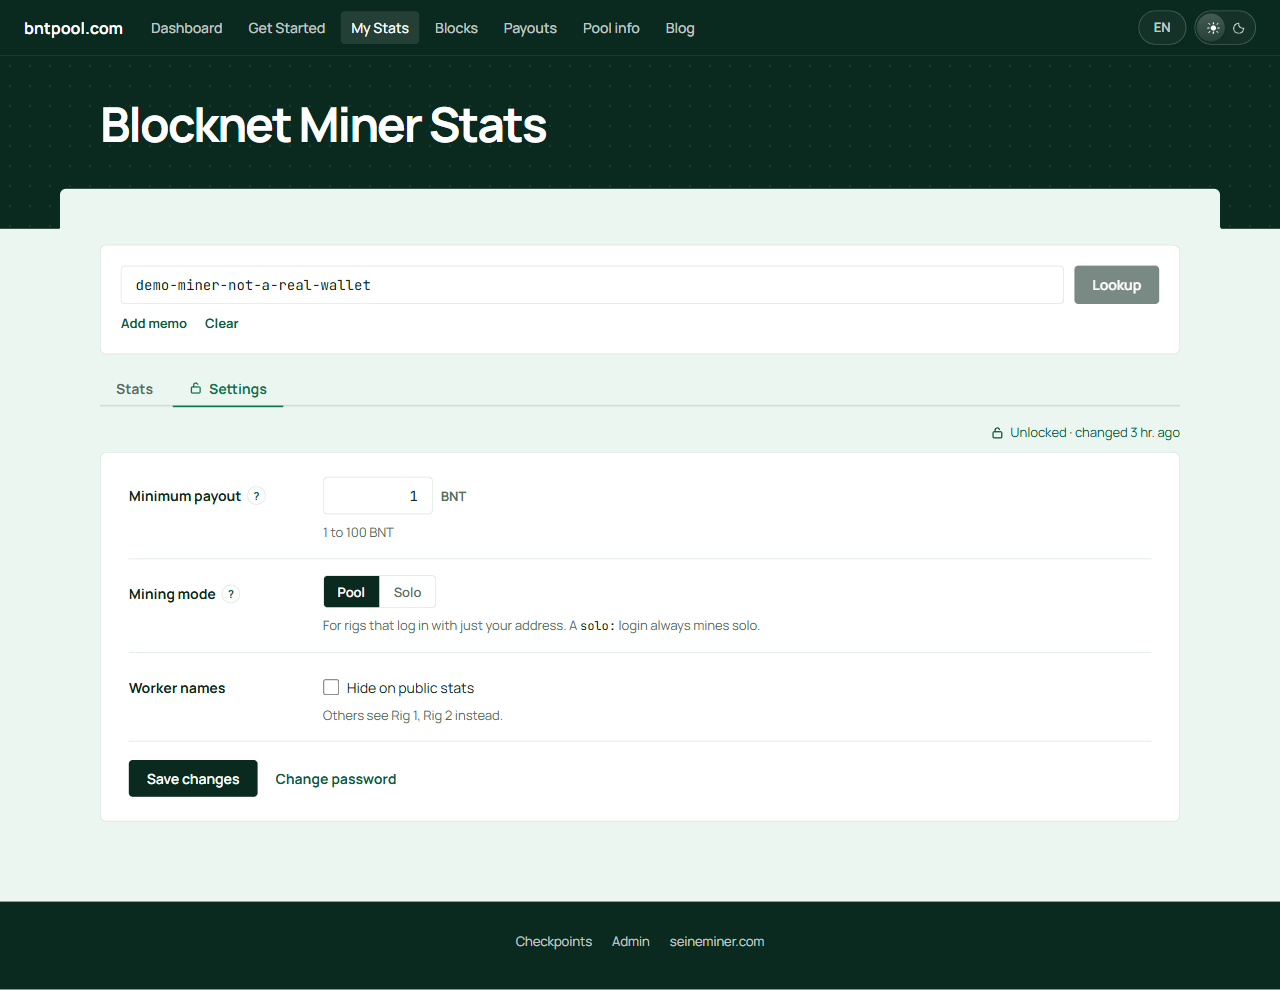
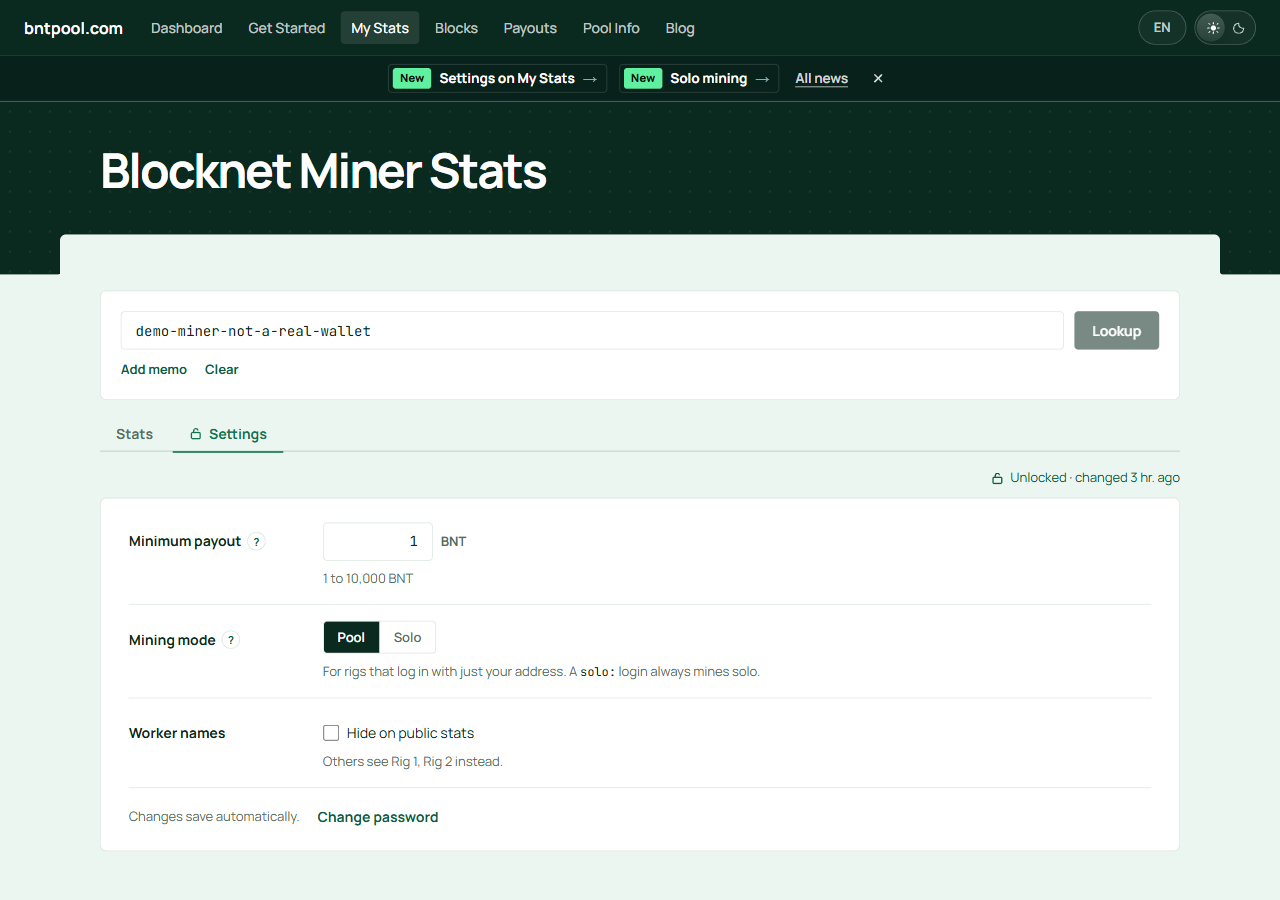
Save miner settings automatically
Pool/Solo and the hide-names box save as soon as they change; the minimum
payout saves when the field loses focus, on Enter, or after a short pause
in typing. Changes made while a save is in flight are sent after it, and a
failed save puts the controls back to what the server has. The Save button
is gone; the status line reads "Changes save automatically", "Saving…" or
"Saved.".

Claude-Session: https://claude.ai/code/session_01X8haTK1pcpRbZpVNhTb1xW

diff --git a/frontend/src/components/MinerSettings.tsx b/frontend/src/components/MinerSettings.tsx
@@ -1,5 +1,5 @@
 import { localizePath, t, tx } from '../i18n';
-import { useCallback, useEffect, useId, useState } from 'react';
+import { useCallback, useEffect, useId, useRef, useState } from 'react';
 
 import type { ApiClient } from '../api/client';
 import { SettingsError } from '../api/client';
@@ -130,16 +130,26 @@ export function MinerSettings({ api, account, onSaved, onUnlockedChange }: Miner
   const [rigIp, setRigIp] = useState('');
   const [changingPassword, setChangingPassword] = useState(false);
   const [draft, setDraft] = useState<{ minPayout: string; solo: boolean; hide: boolean } | null>(null);
+  const [saveStatus, setSaveStatus] = useState<'idle' | 'saving' | 'saved'>('idle');
+  const [saveNote, setSaveNote] = useState('');
+  // Values of the newest change, saved or still on its way to the server.
+  const intended = useRef<MinerSettingsValues | null>(null);
+  const queued = useRef<MinerSettingsValues | null>(null);
+  const saving = useRef(false);
+  const minPayoutTimer = useRef<number | undefined>(undefined);
 
   const adopt = useCallback((next: MinerSettingsState) => {
     setState(next);
     onUnlockedChange?.(next.unlocked);
+    intended.current = next.settings ?? null;
     setDraft(next.settings ? {
       minPayout: String(next.settings.min_payout),
       solo: next.settings.default_solo,
       hide: next.settings.hide_workers,
     } : null);
   }, [onUnlockedChange]);
+
+  useEffect(() => () => window.clearTimeout(minPayoutTimer.current), []);
 
   useEffect(() => {
     let active = true;
@@ -149,6 +159,7 @@ export function MinerSettings({ api, account, onSaved, onUnlockedChange }: Miner
     setNotice('');
     setTakingBack(false);
     setChangingPassword(false);
+    setSaveStatus('idle');
     api.minerSettings.get(account)
       .then((next) => { if (active) adopt(next); })
       .catch(() => { if (active) setLoadFailed(true); });
@@ -170,6 +181,55 @@ export function MinerSettings({ api, account, onSaved, onUnlockedChange }: Miner
       }
     } finally {
       setBusy(false);
+    }
+  };
+
+  /** Saves each change as it is made, one request at a time, newest values last. */
+  const persist = async (values: MinerSettingsValues) => {
+    intended.current = values;
+    if (saving.current) {
+      queued.current = values;
+      return;
+    }
+    saving.current = true;
+    // Leave any notice above the form in place so the controls do not move under the pointer.
+    setSaveStatus('saving');
+    setError('');
+    const before = state?.settings;
+    let next: MinerSettingsValues | null = values;
+    try {
+      let result: MinerSettingsState | null = null;
+      while (next) {
+        result = await api.minerSettings.save(account, next);
+        next = queued.current;
+        queued.current = null;
+      }
+      if (!result) return;
+      setState(result);
+      onUnlockedChange?.(result.unlocked);
+      const settings = result.settings;
+      intended.current = settings ?? null;
+      // Keep whatever is being typed in the amount field; the toggles follow the server.
+      setDraft((draft) => settings && draft ? { ...draft, solo: settings.default_solo, hide: settings.hide_workers } : draft);
+      const notes: string[] = [];
+      if (settings && before && settings.min_payout !== before.min_payout) notes.push(t('settingsSavedMinNote'));
+      if (settings && before && settings.default_solo !== before.default_solo) notes.push(t('settingsSavedModeNote'));
+      setSaveNote(notes.join(' '));
+      setSaveStatus('saved');
+      onSaved();
+    } catch (err) {
+      queued.current = null;
+      setSaveStatus('idle');
+      setError(errorText(err));
+      // Show what the server still has, not the change that failed.
+      const saved = state?.settings;
+      intended.current = saved ?? null;
+      if (saved) setDraft((draft) => draft ? { ...draft, solo: saved.default_solo, hide: saved.hide_workers } : draft);
+      if (err instanceof SettingsError && (err.code === 'locked' || err.code === 'already_claimed')) {
+        api.minerSettings.get(account).then(adopt).catch(() => {});
+      }
+    } finally {
+      saving.current = false;
     }
   };
 
@@ -245,33 +305,40 @@ export function MinerSettings({ api, account, onSaved, onUnlockedChange }: Miner
       {error && <p className="settings-error" role="alert">{error}</p>}
     </>);
   } else if (draft && state.settings) {
-    const saved = state.settings;
     const min = state.pool_min_payout;
     const max = state.max_min_payout;
-    const save = () => {
-      const minPayout = Number(draft.minPayout.trim().replace(',', '.'));
-      if (!Number.isFinite(minPayout) || minPayout < min || minPayout > max) {
-        setNotice('');
-        setError(t('settingsMinPayoutInvalid', [formatNumber(min), formatNumber(max)]));
+    const parseMinPayout = (text: string) => Number(text.trim().replace(',', '.'));
+    const change = (values: Partial<MinerSettingsValues>) => {
+      const base = intended.current ?? state.settings!;
+      void persist({ ...base, ...values });
+    };
+    /** Saves a typed minimum once it is valid; `final` also reports a bad value. */
+    const commitMinPayout = (text: string, final: boolean) => {
+      window.clearTimeout(minPayoutTimer.current);
+      const minPayout = parseMinPayout(text);
+      if (!text.trim() || !Number.isFinite(minPayout) || minPayout < min || minPayout > max) {
+        if (final) {
+          setError(t('settingsMinPayoutInvalid', [formatNumber(min), formatNumber(max)]));
+        }
         return;
       }
-      const next: MinerSettingsValues = { min_payout: minPayout, default_solo: draft.solo, hide_workers: draft.hide };
-      void run(() => api.minerSettings.save(account, next), (result) => {
-        const notes = [t('settingsSaved')];
-        if (result.settings && result.settings.min_payout !== saved.min_payout) notes.push(t('settingsSavedMinNote'));
-        if (result.settings && result.settings.default_solo !== saved.default_solo) notes.push(t('settingsSavedModeNote'));
-        setNotice(notes.join(' '));
-        onSaved();
-      });
+      if (minPayout !== (intended.current ?? state.settings!).min_payout) change({ min_payout: minPayout });
     };
     body = (<>
       {notice && <p className="settings-saved" role="status">{notice}</p>}
-      <form className="settings-form" onSubmit={(event) => { event.preventDefault(); save(); }}>
+      <form className="settings-form" onSubmit={(event) => { event.preventDefault(); commitMinPayout(draft.minPayout, true); }}>
         <Row label={t('settingsMinPayout')} hint={t('settingsMinPayoutRange', [formatNumber(min), formatNumber(max)])}
           help={{ text: t('settingsMinPayoutHelp'), href: `${localizePath('/info')}#minimum-payout`, link: t('settingsHowPayoutsWork') }}>
           <div className="settings-amount">
-            <input type="text" inputMode="decimal" dir="ltr" aria-label={t('settingsMinPayout')} value={draft.minPayout}
-              onChange={(event) => setDraft({ ...draft, minPayout: event.target.value })} />
+            <input type="text" inputMode="decimal" dir="ltr" enterKeyHint="done" aria-label={t('settingsMinPayout')} value={draft.minPayout}
+              onChange={(event) => {
+                const text = event.target.value;
+                setDraft({ ...draft, minPayout: text });
+                setError('');
+                window.clearTimeout(minPayoutTimer.current);
+                minPayoutTimer.current = window.setTimeout(() => commitMinPayout(text, false), 1200);
+              }}
+              onBlur={(event) => commitMinPayout(event.target.value, true)} />
             <span>BNT</span>
           </div>
         </Row>
@@ -279,19 +346,27 @@ export function MinerSettings({ api, account, onSaved, onUnlockedChange }: Miner
           help={{ text: t('infoSoloLead'), href: `${localizePath('/info')}#solo`, link: t('settingsPoolVsSolo') }}>
           <div className="start-choice" role="group" aria-label={t('settingsMode')}>
             <button type="button" className={draft.solo ? '' : 'active'} aria-pressed={!draft.solo}
-              onClick={() => setDraft({ ...draft, solo: false })}>{t('typePool')}</button>
+              onClick={() => { if (draft.solo) { setDraft({ ...draft, solo: false }); change({ default_solo: false }); } }}>{t('typePool')}</button>
             <button type="button" className={draft.solo ? 'active' : ''} aria-pressed={draft.solo}
-              onClick={() => setDraft({ ...draft, solo: true })}>{t('typeSolo')}</button>
+              onClick={() => { if (!draft.solo) { setDraft({ ...draft, solo: true }); change({ default_solo: true }); } }}>{t('typeSolo')}</button>
           </div>
         </Row>
         <Row label={t('settingsWorkerNames')} hint={t('settingsHideWorkersHint')}>
           <div className="settings-checks">
-            <label><input type="checkbox" checked={draft.hide} onChange={(event) => setDraft({ ...draft, hide: event.target.checked })} /> {t('settingsHideWorkers')}</label>
+            <label><input type="checkbox" checked={draft.hide} onChange={(event) => {
+              const hide = event.target.checked;
+              setDraft({ ...draft, hide });
+              change({ hide_workers: hide });
+            }} /> {t('settingsHideWorkers')}</label>
           </div>
         </Row>
         {error && <p className="settings-error settings-row-error" role="alert">{error}</p>}
         <div className="settings-actions">
-          <button type="submit" className="btn btn-primary" disabled={busy}>{t('settingsSave')}</button>
+          <p className={`settings-autosave ${saveStatus === 'saved' ? 'is-saved' : ''}`} role="status" aria-live="polite">
+            {saveStatus === 'saving' ? t('settingsSaving')
+              : saveStatus === 'saved' ? [t('settingsSaved'), saveNote].filter(Boolean).join(' ')
+              : t('settingsAutoSave')}
+          </p>
           <button type="button" className="link-button" aria-expanded={changingPassword}
             onClick={() => setChangingPassword((value) => !value)}>{t('settingsChangePassword')}</button>
         </div>

diff --git a/frontend/showcases/miner-settings/showcase.tsx b/frontend/showcases/miner-settings/showcase.tsx
@@ -22,6 +22,8 @@ type State = keyof typeof STATES;
 const params = new URLSearchParams(location.search);
 const state = ((params.get('state') ?? 'locked') in STATES ? params.get('state') : 'locked') as State;
 const theme = params.get('theme') === 'dark' ? 'dark' : 'light';
+// `save=slow` holds each settings save for 4 s; `save=fail` ends the session on the first save.
+const saveMode = params.get('save');
 localStorage.setItem('pool_theme', theme);
 applyTheme(theme);
 
@@ -107,6 +109,17 @@ function settingsRoute(method: string, action: string, body: Record<string, unkn
   }
   if (method === 'PUT') {
     if (!server.unlocked) return fail(401, 'locked');
+    if (saveMode === 'fail') {
+      server.unlocked = false;
+      return fail(401, 'locked');
+    }
+    if (saveMode === 'slow') {
+      return new Promise<Response>((resolve) => setTimeout(() => {
+        Object.assign(server, { minPayout: body.min_payout, solo: body.default_solo, hide: body.hide_workers });
+        touch();
+        resolve(Response.json(settingsState()));
+      }, 4000));
+    }
     Object.assign(server, { minPayout: body.min_payout, solo: body.default_solo, hide: body.hide_workers });
     touch();
     return Response.json(settingsState());

diff --git a/frontend/src/styles.css b/frontend/src/styles.css
@@ -2561,6 +2561,8 @@ html { scroll-padding-top: 72px; }
 .settings-checks label { display: inline-flex; flex-wrap: wrap; align-items: center; gap: 8px; font-size: 14px; }
 .settings-checks input[type='checkbox'] { width: 16px; height: 16px; margin: 0; accent-color: var(--accent); }
 .settings-actions { display: flex; flex-wrap: wrap; align-items: center; gap: 10px 18px; padding-top: 18px; }
+.settings-autosave { margin: 0; font-size: 13px; color: var(--muted); }
+.settings-autosave.is-saved { color: var(--tone-ok-text); }
 .settings-change-password { margin-top: 16px; padding-top: 16px; border-top: 1px solid var(--border); }
 @media (max-width: 600px) {
   .settings-card { padding: 18px; }

diff --git a/frontend/showcases/miner-settings/README.md b/frontend/showcases/miner-settings/README.md
@@ -15,15 +15,22 @@ real pool. The demo password is `correct horse`; the rig IP that wins a take-bac
   hour lock out further tries.
 - `unlocked`: minimum payout (pool minimum up to what one payout may send, 10,000 BNT on bntpool), mining mode for logins without
   `solo:`, and hiding worker names, each with a ? note for the first two linking to Pool info.
+  Each change saves on its own: Pool/Solo and the checkbox at once, the minimum when the field
+  loses focus, on Enter, or after a short pause in typing. An out-of-range minimum is not sent.
   Saving a new minimum updates the payout bar on the Stats tab.
 - `custom`: unlocked with a 5 BNT minimum, solo and hidden names.
 - `no-password`: another browser took the address back and has not set a password yet.
 - `public-hidden`: the Stats tab as a visitor sees it when names are hidden (Rig 1, Rig 2).
 - `loading`, `error`: settings still loading, and the settings API failing.
 
+Add `save=slow` to hold each save for 4 s (shows "Saving…" and lets changes queue), or
+`save=fail` to end the session on the first save (the "locked again" path).
+
 Take-backs are clicked through from `locked`: Take it back from a rig, a refused IP, then
 `203.0.113.24`, then a new password.
 
 The captures in `captures/` were taken through the shared Playwright browser on 2026-11-04 at
 1280 px and 390 px and in dark mode, all with synthetic data. Source: blocknet-pool branch
-`miner-settings`.
+`miner-settings`. The unlocked-form captures (`unlocked-*`, `saved`, `saving`, `help-notes`,
+`exchange`, `take-back-done`, `min-payout-invalid`, `locked-again`) were retaken on 2026-11-05
+(EST) for auto-save, from branch `settings-autosave`.
